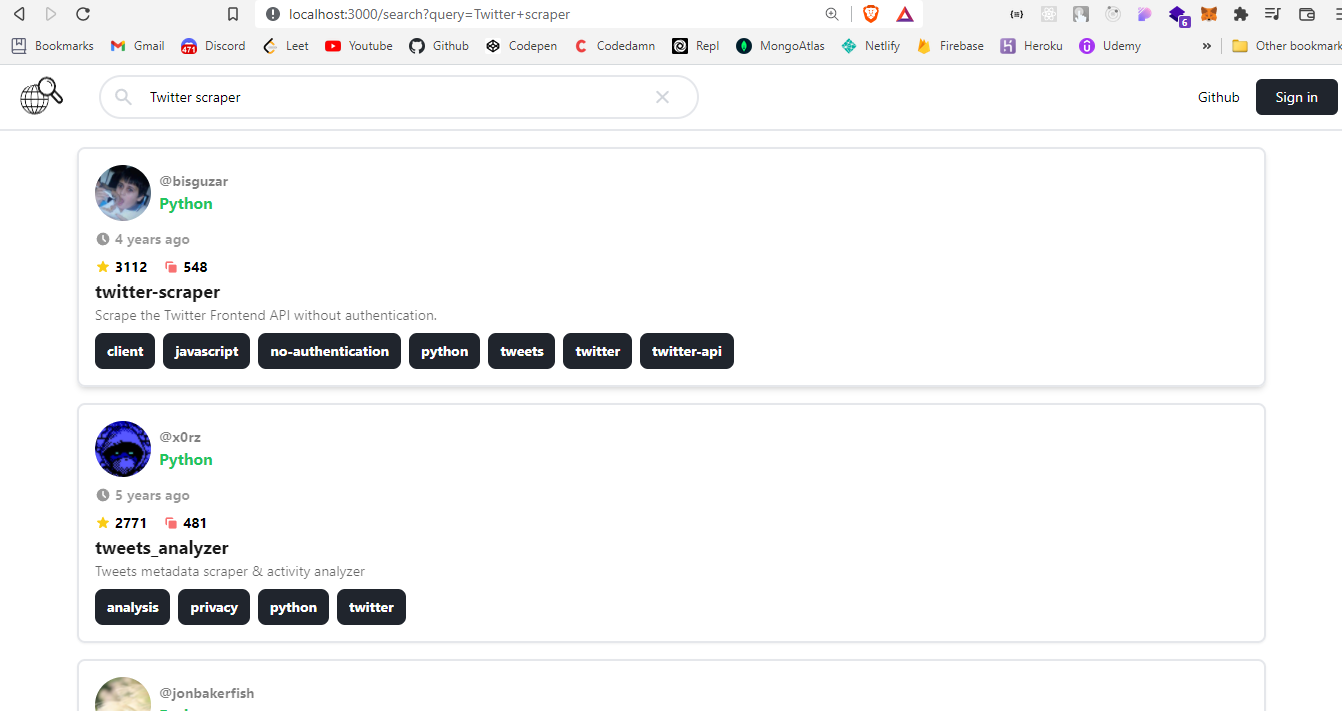
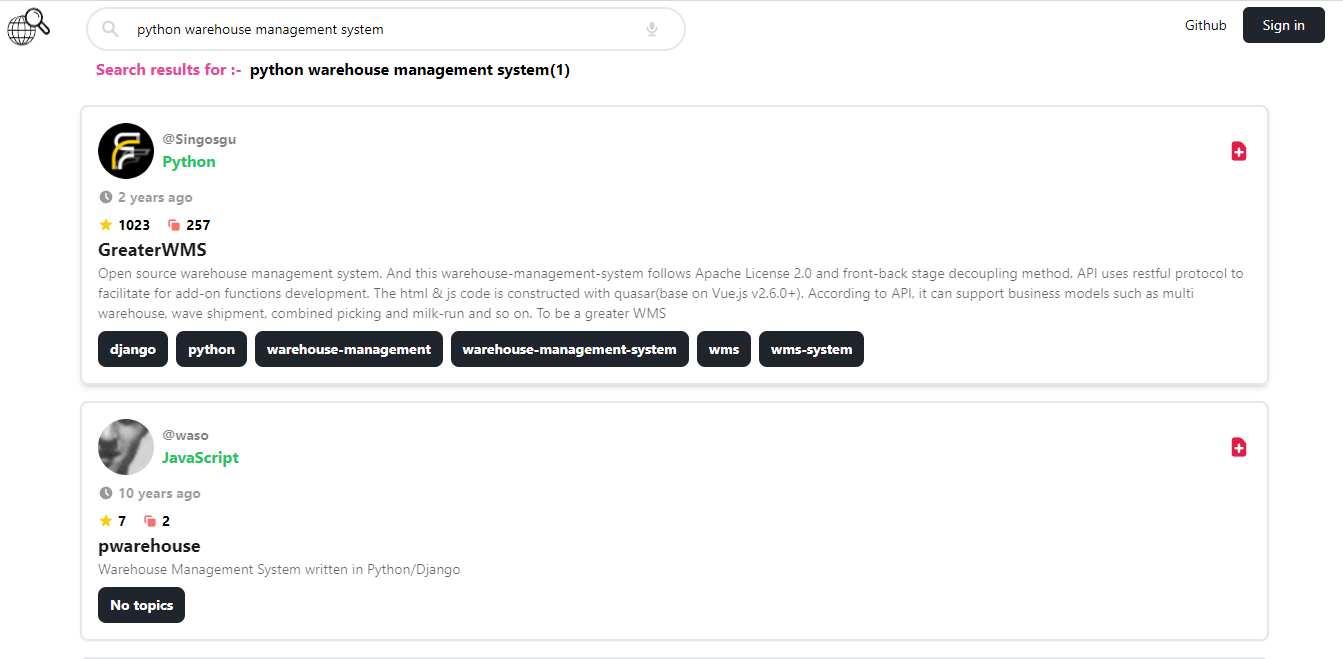
major changes now only api req optimization remained.

diff --git a/pages/search.tsx b/pages/search.tsx
@@ -7,10 +7,7 @@ import axios from "axios";
 import Footer from "../components/Footer";
 import { ResultsInterface } from "../interfaces/interfaces";
 import ClipLoader from "react-spinners/ClipLoader";
-import {
-  ExclamationCircleIcon,
-  ArrowCircleRightIcon,
-} from "@heroicons/react/solid";
+import { ExclamationCircleIcon } from "@heroicons/react/solid";
 
 type ResultsType = [ResultsInterface];
 
@@ -87,16 +84,18 @@ const Search: FC = () => {
       </Head>
       <main>
         {/* Header */}
-        <Header isSearch={true} valueText={query} />
-        <div className="border-b-2 mt-2"></div>
-        <div className="mt-2 flex justify-start mx-24">
-          <h1 className="font-bold">
-            <span className="text-sm text-pink-500 font-bold mr-2">
-              Search results for :
-            </span>
-            {query}({pageCounter})
-          </h1>
+        <div className="sticky top-0 z-40 bg-white left-0 right-0">
+          <Header isSearch={true} valueText={query} />
+          <div className="mt-2 flex justify-start mx-24 pb-2  ">
+            <h1 className="font-bold">
+              <span className="text-md text-pink-500 font-bold mr-2">
+                Search results for :-
+              </span>
+              {query}({pageCounter})
+            </h1>
+          </div>
         </div>
+
         {/* Github repos main card detail. */}
         {load ? (
           <div className="flex justify-center mt-8">
@@ -117,7 +116,7 @@ const Search: FC = () => {
                 onClick={onPreviousPageHandler}
                 className="text-md font-bold  cursor-pointer hover:underline text-pink-500 "
               >
-                Previous
+                ({pageCounter - 1}) Previous
               </h1>
             )}
 
@@ -125,7 +124,7 @@ const Search: FC = () => {
               onClick={onNextPageHandler}
               className="text-md font-bold  cursor-pointer hover:underline text-purple-500 "
             >
-              Next
+              Next ({pageCounter + 1})
             </h1>
           </div>
         )}

diff --git a/components/Header.tsx b/components/Header.tsx
@@ -10,33 +10,30 @@ interface HeaderProps {
 
 const Header: FC<HeaderProps> = ({ isSearch, valueText }) => {
   return (
-    <div>
-      <div className="h-12 w-full flex justify-evenly items-center mt-2 ml-4">
-        <div>
-          <Link href={"/"} passHref>
-            <Image src={"/images/logo.png"} height={54} width={54} />
-          </Link>
-        </div>
-        <div className="w-full flex-1 ml-8 mr-16">
-          {isSearch && (
-            <div className="w-[600px]">
-              <SearchBox valueText={valueText} />
-            </div>
-          )}
-        </div>
-        <div className="flex justify-around text-sm items-center mr-6 space-x-4">
-          <a
-            href="https://github.com/joerush18/project-finder"
-            target="_blank"
-            rel="noreferrer"
-          >
-            <h1 className="hover:underline cursor-pointer">Github</h1>
-          </a>
+    <div className="h-12 w-full flex justify-evenly items-center bg-white">
+      <Link href={"/"} passHref>
+        <Image src={"/images/logo.png"} height={54} width={54} />
+      </Link>
 
-          <button className="bg-backgroundDark px-5 py-2 text-white rounded-md">
-            Sign in
-          </button>
-        </div>
+      <div className="w-full flex-1 ml-8 mr-16">
+        {isSearch && (
+          <div className="w-[600px] mt-2">
+            <SearchBox valueText={valueText} />
+          </div>
+        )}
+      </div>
+      <div className="flex justify-around text-sm items-center mr-6 space-x-4">
+        <a
+          href="https://github.com/joerush18/project-finder"
+          target="_blank"
+          rel="noreferrer"
+        >
+          <h1 className="hover:underline cursor-pointer">Github</h1>
+        </a>
+
+        <button className="bg-backgroundDark px-5 py-2 text-white rounded-md">
+          Sign in
+        </button>
       </div>
     </div>
   );

diff --git a/pages/index.tsx b/pages/index.tsx
@@ -12,7 +12,9 @@ export default function Home() {
       </Head>
       <main>
         {/* Heaader */}
-        <Header isSearch={false} />
+        <div className="mx-4 mt-2">
+          <Header isSearch={false} />
+        </div>
         <div className="flex justify-center items-baseline mt-6">
           <h1 className="text-sm text-pink-500 cursor-pointer font-bold">
             “The secret of getting ahead is getting started”

diff --git a/styles/globals.css b/styles/globals.css
@@ -3,3 +3,11 @@
 @tailwind base;
 @tailwind components;
 @tailwind utilities;
+
+@layer base {
+  html,
+  main,
+  body {
+    @apply m-0 p-0;
+  }
+}

diff --git a/README.md b/README.md
@@ -20,8 +20,9 @@ yarn dev
 
 ## Screenshots
 
-![App Screenshot](sampleimh1.png)
+![App Screenshot](sampleimg1.png)
 ![App Screenshot](sampleimg2.png)
+![App Screenshot](sampleimg3.png)
 
 ## Deploy on Vercel
 
